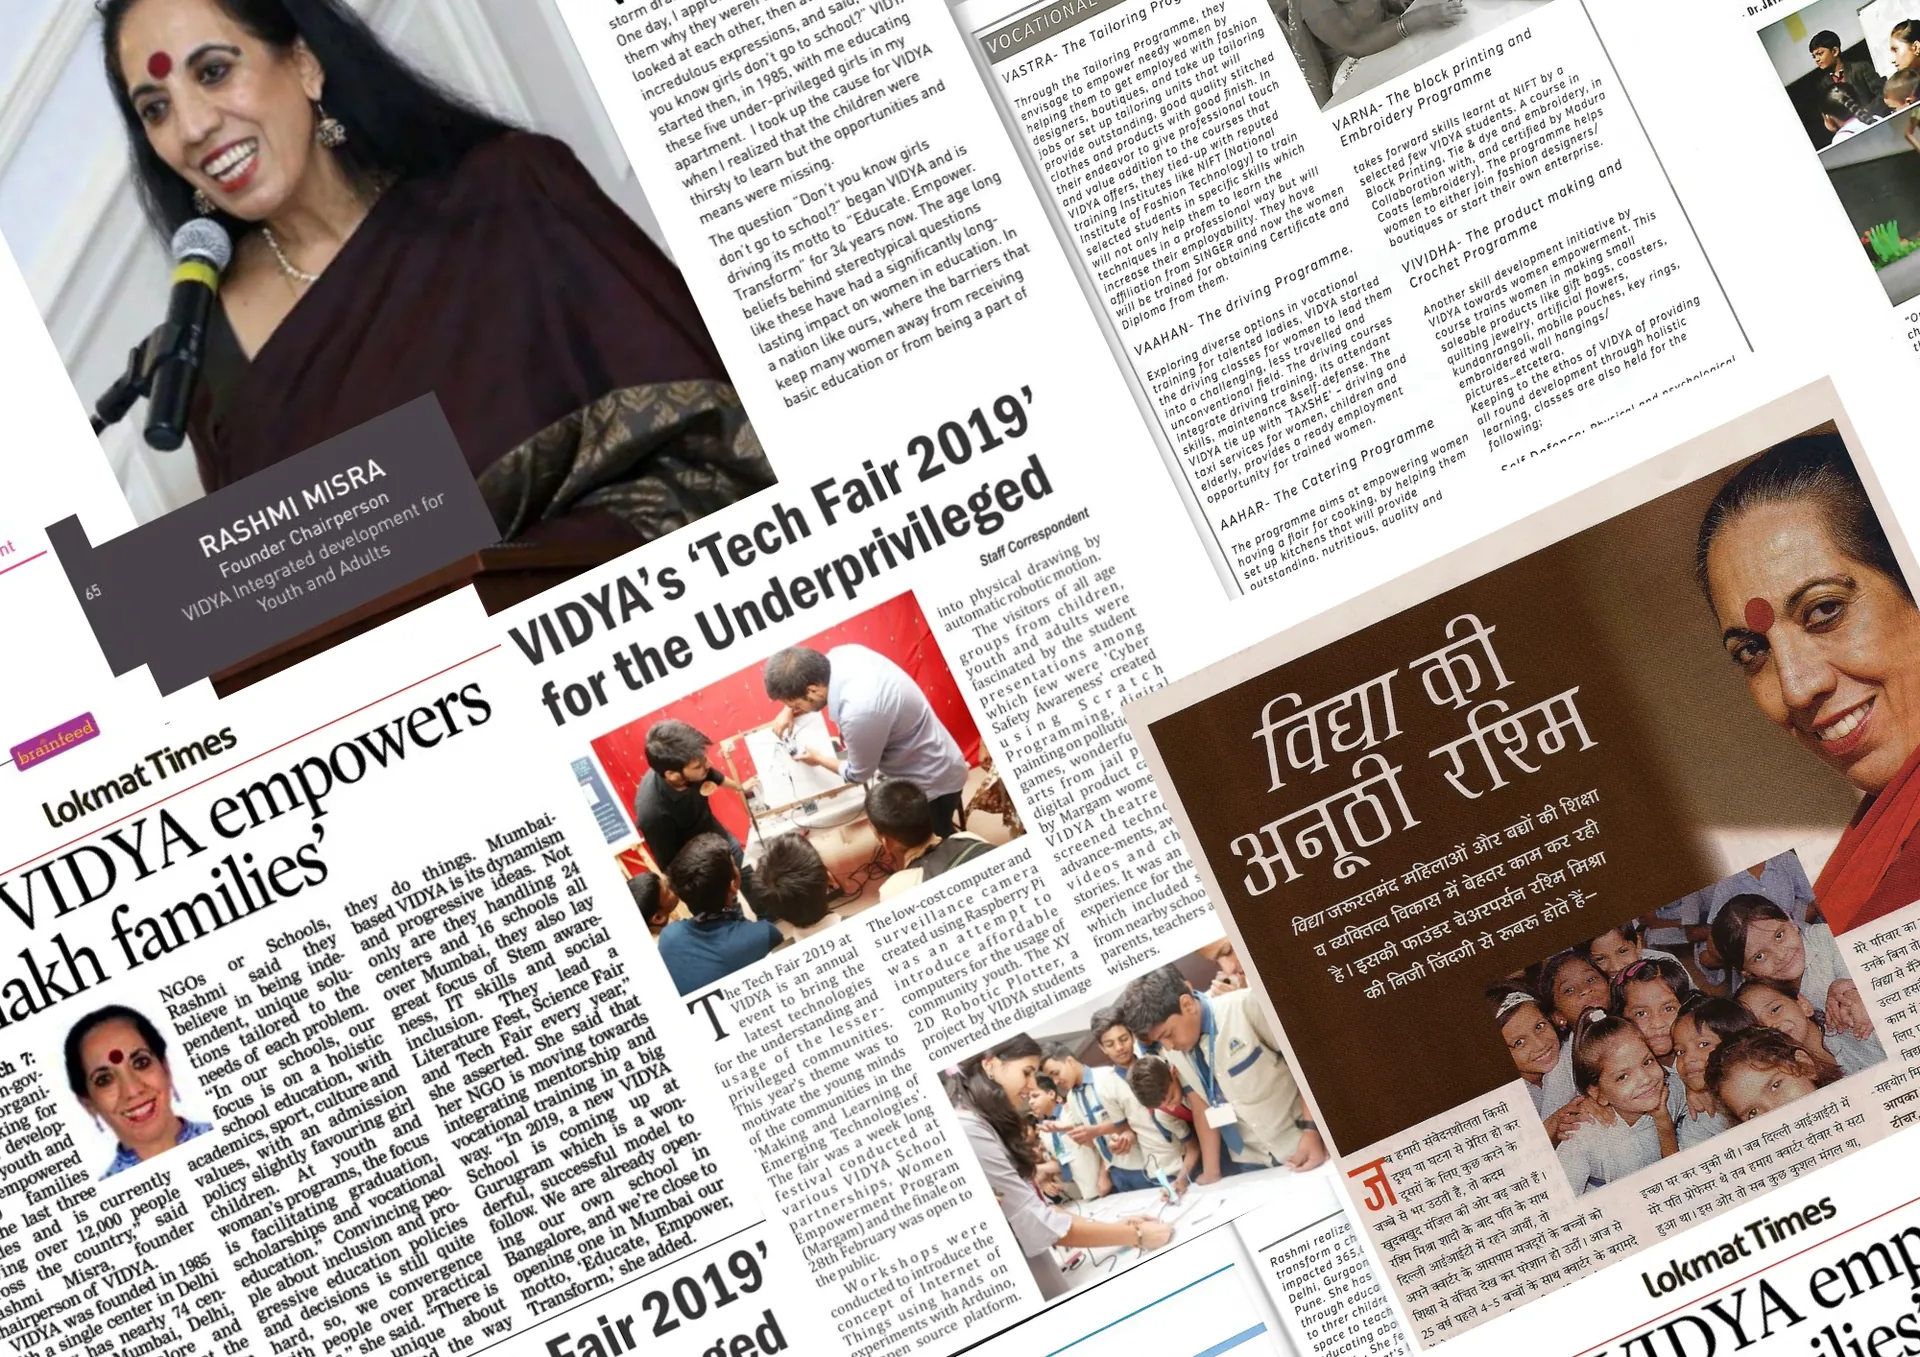
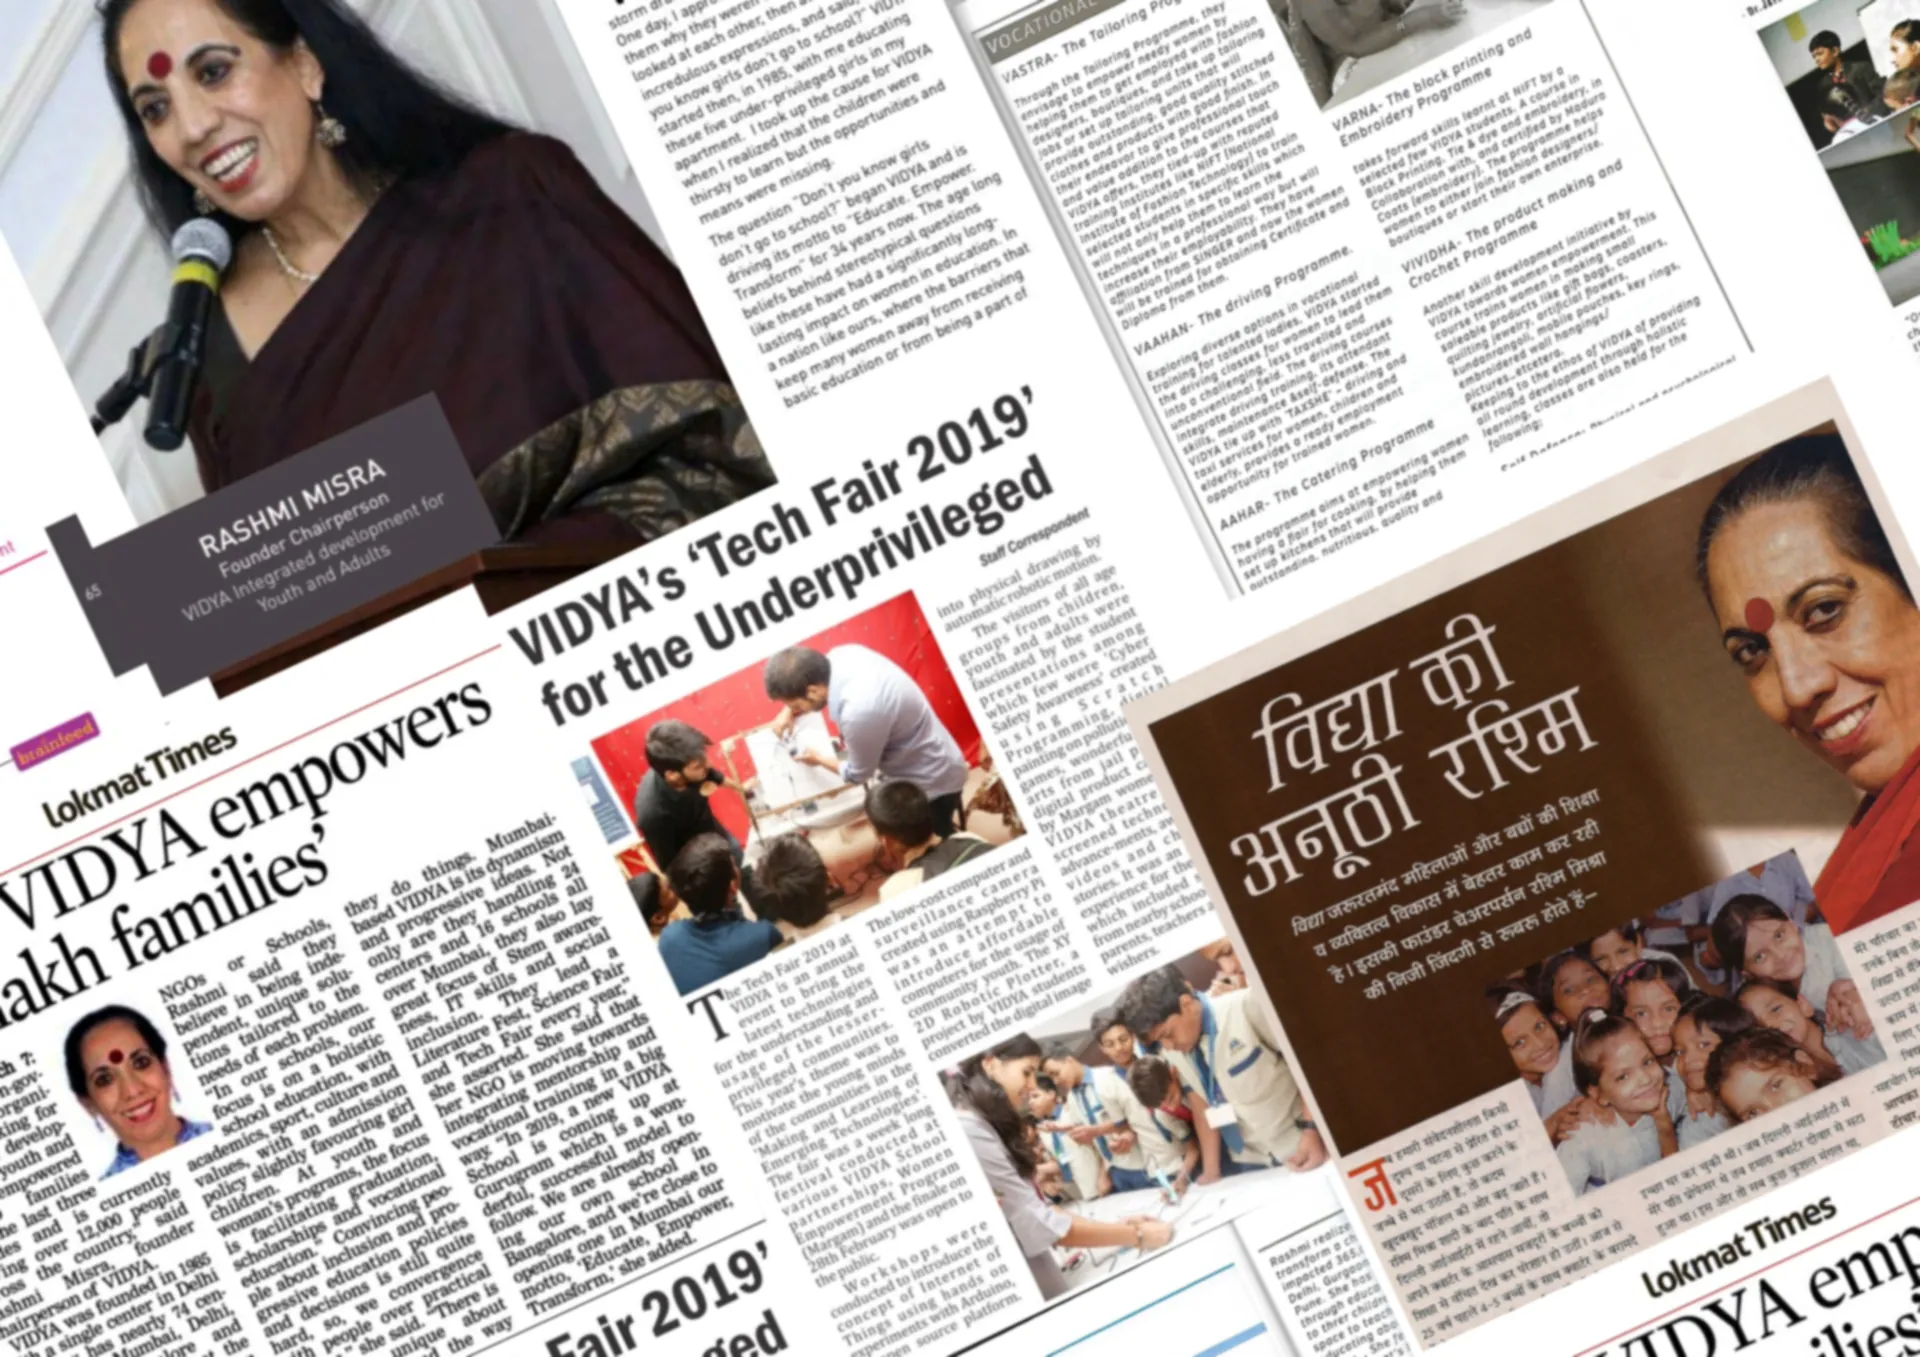
perf(frontend): eliminate lag in about section while preserving exact design and ui

diff --git a/frontend/components/video-modal.tsx b/frontend/components/video-modal.tsx
@@ -1,18 +1,17 @@
 "use client"
 
-import { useState, useRef, useEffect, useCallback, useSyncExternalStore } from "react"
+import { useState, useRef, useEffect, useSyncExternalStore } from "react"
 import { createPortal } from "react-dom"
 import { Play, X } from "lucide-react"
-import { BlurImage } from "@/components/blur-image"
+import Image from "next/image"
 
 const emptySubscribe = () => () => {}
 
 export default function VideoModal() {
   const [isModalOpen, setIsModalOpen] = useState(false)
-  const [isHovered, setIsHovered] = useState(false)
   const imageContainerRef = useRef<HTMLDivElement>(null)
   const badgeRef = useRef<HTMLDivElement>(null)
-  const containerRectRef = useRef<{ left: number; top: number } | null>(null)
+  const rafId = useRef<number | null>(null)
 
   const mounted = useSyncExternalStore(
     emptySubscribe,
@@ -30,42 +29,34 @@ export default function VideoModal() {
     return () => window.removeEventListener("keydown", handleKeyDown)
   }, [isModalOpen])
 
-  const handleMouseEnter = () => {
-    if (imageContainerRef.current) {
-      const rect = imageContainerRef.current.getBoundingClientRect()
-      containerRectRef.current = { left: rect.left, top: rect.top }
+  useEffect(() => {
+    return () => {
+      if (rafId.current) cancelAnimationFrame(rafId.current)
     }
-    setIsHovered(true)
-  }
-
-  const handleMouseMove = useCallback((e: React.MouseEvent<HTMLDivElement>) => {
-    if (!badgeRef.current) return
-    if (!containerRectRef.current && imageContainerRef.current) {
-      const rect = imageContainerRef.current.getBoundingClientRect()
-      containerRectRef.current = { left: rect.left, top: rect.top }
-    }
-    if (!containerRectRef.current) return
-    const x = e.clientX - containerRectRef.current.left
-    const y = e.clientY - containerRectRef.current.top
-    badgeRef.current.style.transform = `translate3d(${x - 60}px, ${y - 20}px, 0)`
   }, [])
 
-  const handleMouseLeave = () => {
-    setIsHovered(false)
-    containerRectRef.current = null
+  const handleMouseMove = (e: React.MouseEvent<HTMLDivElement>) => {
+    const clientX = e.clientX
+    const clientY = e.clientY
+    if (rafId.current) cancelAnimationFrame(rafId.current)
+    rafId.current = requestAnimationFrame(() => {
+      if (!badgeRef.current || !imageContainerRef.current) return
+      const rect = imageContainerRef.current.getBoundingClientRect()
+      const x = clientX - rect.left
+      const y = clientY - rect.top
+      badgeRef.current.style.transform = `translate3d(${x - 60}px, ${y - 20}px, 0)`
+    })
   }
 
   return (
     <>
       <div 
         ref={imageContainerRef}
-        onMouseEnter={handleMouseEnter}
         onMouseMove={handleMouseMove}
-        onMouseLeave={handleMouseLeave}
         onClick={() => setIsModalOpen(true)}
-        className="relative rounded-2xl overflow-hidden border border-border/80 bg-card/45 shadow-lg group aspect-video cursor-pointer select-none transform-gpu"
+        className="relative rounded-2xl overflow-hidden border border-border/80 bg-card/45 shadow-lg group aspect-video cursor-pointer select-none"
       >
-        <BlurImage
+        <Image
           className="w-full h-full object-cover rounded-2xl transition-transform duration-500 group-hover:scale-105 will-change-transform"
           src="/assets/illustrations/thumbnail.webp"
           alt="VIDYA School Video Thumbnail"
@@ -76,27 +67,27 @@ export default function VideoModal() {
         />
         <button
           type="button"
-          className="absolute left-1/2 top-1/2 z-20 flex h-18 w-18 -translate-x-1/2 -translate-y-1/2 items-center justify-center rounded-full border border-white/35 bg-white/20 text-white shadow-2xl backdrop-blur-xl transition-transform hover:scale-110 transform-gpu"
+          className="absolute left-1/2 top-1/2 z-20 flex h-18 w-18 -translate-x-1/2 -translate-y-1/2 items-center justify-center rounded-full border border-white/35 bg-white/20 text-white shadow-2xl backdrop-blur-md transition-transform hover:scale-110"
           aria-label="Play video"
         >
           <Play className="ml-1 h-7 w-7 fill-current" />
         </button>
-        {isHovered && (
-          <div 
-            ref={badgeRef}
-            className="hidden sm:flex absolute pointer-events-none z-20 items-center gap-2 bg-background/60 backdrop-blur-md border border-border/80 text-foreground font-semibold rounded-xl shadow-2xl text-xs px-4 py-2.5 will-change-transform transition-opacity duration-150"
-            style={{ 
-              top: 0,
-              left: 0,
-              transform: "translate3d(-9999px, -9999px, 0)"
-            }}
-          >
-            <div className="flex h-5 w-5 items-center justify-center rounded-full bg-rose-600 text-white animate-pulse">
-              <Play className="h-2 w-2 fill-current ml-0.5" />
-            </div>
-            <span>Watch Video</span>
+
+        {/* Floating cursor badge — purely GPU accelerated, zero React re-renders */}
+        <div 
+          ref={badgeRef}
+          className="hidden sm:flex absolute pointer-events-none z-20 items-center gap-2 bg-background/90 dark:bg-background/90 border border-border/80 text-foreground font-semibold rounded-xl shadow-2xl text-xs px-4 py-2.5 opacity-0 group-hover:opacity-100 transition-opacity duration-200 will-change-transform"
+          style={{ 
+            top: 0,
+            left: 0,
+            transform: "translate3d(-9999px, -9999px, 0)"
+          }}
+        >
+          <div className="flex h-5 w-5 items-center justify-center rounded-full bg-rose-600 text-white animate-pulse">
+            <Play className="h-2 w-2 fill-current ml-0.5" />
           </div>
-        )}
+          <span>Watch Video</span>
+        </div>
       </div>
 
       {isModalOpen && mounted && createPortal(

diff --git a/frontend/app/page.tsx b/frontend/app/page.tsx
@@ -35,13 +35,13 @@ export default function Home() {
           <InViewRender minHeight="380px" rootMargin="200px 0px">
             <section id="about" className="relative isolate w-full mt-16 md:mt-24 py-10 md:py-16 rounded-3xl border border-border/70 overflow-hidden bg-card/20 shadow-sm">
               {/* Section Background: founder_bg.webp */}
-              <div className="absolute inset-0 -z-10 overflow-hidden pointer-events-none transform-gpu will-change-transform">
+              <div className="absolute inset-0 -z-10 overflow-hidden pointer-events-none">
                 <img
                   src="/assets/illustrations/founder_bg.webp"
                   alt="Founder Background"
                   loading="lazy"
                   decoding="async"
-                  className="w-full h-full object-cover filter blur-[1px] scale-[1.02] transform-gpu"
+                  className="w-full h-full object-cover select-none pointer-events-none"
                 />
                 <div className="absolute inset-0 bg-background/55 dark:bg-background/70" />
               </div>
@@ -50,7 +50,7 @@ export default function Home() {
               <div className="mx-auto w-full max-w-[1380px] px-4 sm:px-6 lg:px-8">
                 <div className="grid grid-cols-1 lg:grid-cols-12 gap-8 lg:gap-12 items-center">
                   <div className="lg:col-span-7"><VideoModal /></div>
-                  <div className="lg:col-span-5 flex flex-col justify-center space-y-5 bg-background/80 dark:bg-background/85 backdrop-blur-md p-6 sm:p-8 rounded-2xl border border-border/50 shadow-md transform-gpu">
+                  <div className="lg:col-span-5 flex flex-col justify-center space-y-5 bg-background/85 dark:bg-background/90 max-sm:backdrop-blur-none sm:backdrop-blur-md sm:bg-background/80 sm:dark:bg-background/85 p-6 sm:p-8 rounded-2xl border border-border/50 shadow-md">
 
                     <p className="text-lg sm:text-xl font-semibold text-foreground leading-relaxed">
                       "It's like a home to me. It's the place where I grow as a person, get exposed to new ideas, learn and reach for my dreams."
